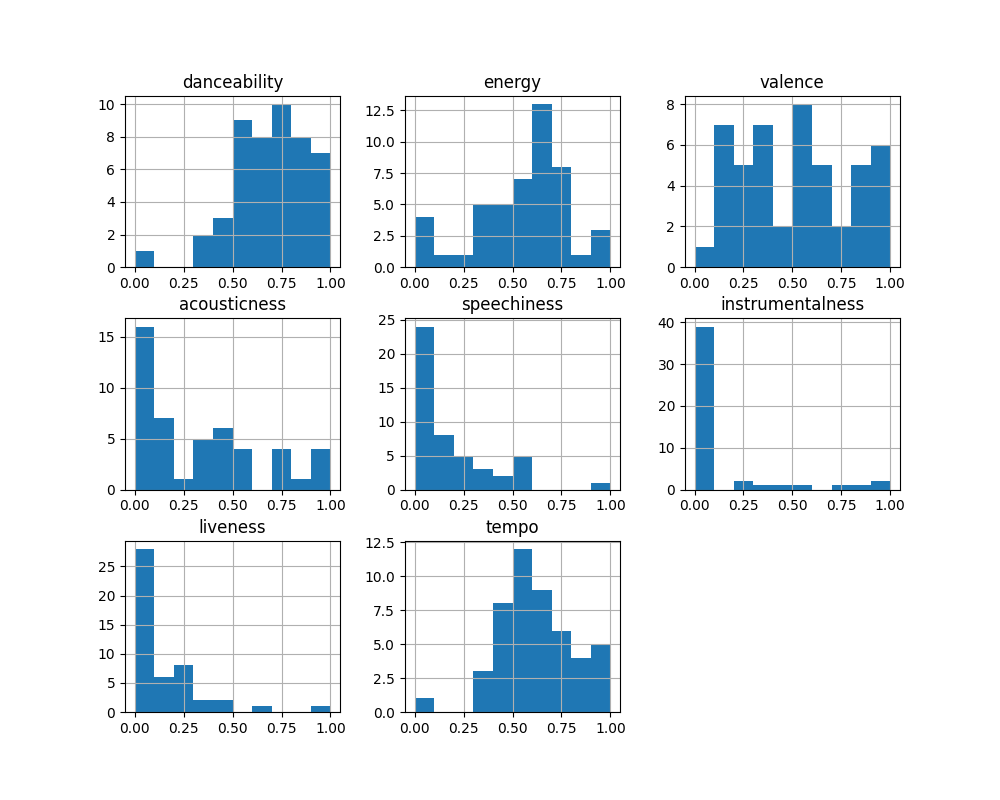
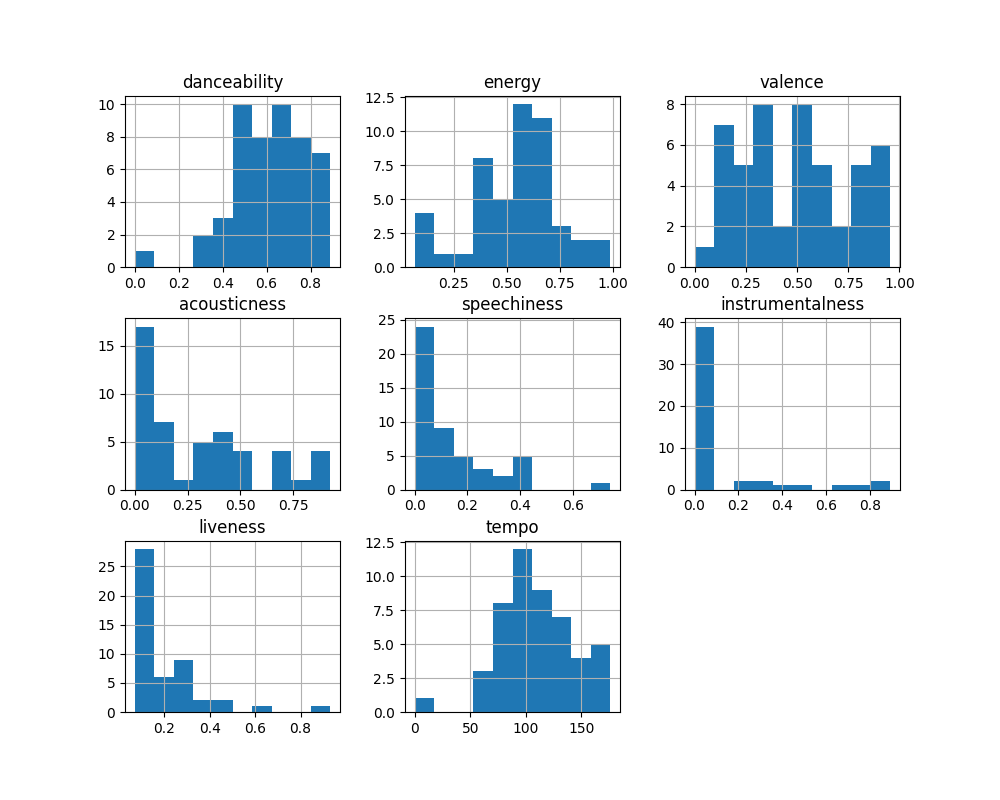
refactor directories and add data plot

diff --git a/src/model/kmeans.py b/src/model/kmeans.py
@@ -1,0 +1,70 @@
+import pandas as pd
+from sklearn.cluster import KMeans
+from sklearn.decomposition import PCA
+import matplotlib.pyplot as plt
+
+normalized_df = pd.read_csv("../../data/dataset_normalizzato.csv")
+
+##alcuni grafici che rappresentano i brani con le features più alte e più basse nel dataset.
+orderedDf = normalized_df.sort_values(by = ['danceability'], ascending = False, ignore_index=True)
+dfToPlot = orderedDf.head(5)
+ax = dfToPlot.plot(title = 'Danceability', x = 'titolo', y = 'danceability', legend = False, kind = "barh", color='red')
+ax.get_figure().tight_layout()
+plt.savefig("../../grafici/danceability.png")
+
+orderedDf = normalized_df.sort_values(by = ['energy'], ascending = False, ignore_index=True)
+dfToPlot = orderedDf.head(5)
+ax = dfToPlot.plot(title = 'Energy', x = 'titolo', y = 'danceability', legend = False, kind = "barh", color='cyan')
+ax.get_figure().set_in_layout(True)
+plt.savefig("../../grafici/energy.png")
+
+orderedDf = normalized_df.sort_values(by = ['liveness'], ascending = False, ignore_index=True)
+dfToPlot = orderedDf.head(5)
+ax = dfToPlot.plot(title = 'liveness', x = 'titolo', y = 'danceability', legend = False, kind = "barh", color='green')
+ax.get_figure().set_in_layout(True)
+plt.savefig("../../grafici/liveness.png")
+
+curva = []
+K = range(2,10)
+normalized_df.drop('titolo', axis=1, inplace=True)
+for k in K:
+    kmeanModel = KMeans(n_clusters=k, n_init=10)
+    kmeanModel.fit(normalized_df)
+    curva.append(kmeanModel.inertia_)
+
+plt.figure(figsize=(16,8))
+plt.plot(K, curva)
+plt.xlabel('Numero di Cluster (k)')
+plt.ylabel('SSE')
+plt.title('Il metodo Elbow Point mostra il k ottimale per il clustering.')
+plt.show()
+
+##realizzazione del PCA a 2 dimensioni
+pca = PCA(2)
+df_train = pca.fit_transform(normalized_df)
+print("debug 1")
+
+##applicazione del kMeans.
+kmeans = KMeans(5, n_init=10, max_iter=100)
+assigned_clusters = kmeans.fit_predict(df_train) ##fase di training
+print("Cluster creati")
+print(assigned_clusters)
+print(df_train)
+
+##plot dei risultati
+filtered_label0 = df_train[assigned_clusters == 0]
+filtered_label1 = df_train[assigned_clusters == 1]
+filtered_label2 = df_train[assigned_clusters == 2]
+filtered_label3 = df_train[assigned_clusters == 3]
+filtered_label4 = df_train[assigned_clusters == 4]
+centroids = kmeans.cluster_centers_
+plt.xlabel('PrincipalComponent1')
+plt.ylabel('PrincipalComponent2')
+plt.title('Rappresentazione dei cluster (kMeans)')
+plt.scatter(filtered_label0[:,0] , filtered_label0[:,1] , color = 'red')
+plt.scatter(filtered_label1[:,0] , filtered_label1[:,1] , color = 'limegreen')
+plt.scatter(filtered_label2[:,0] , filtered_label2[:,1] , color = 'fuchsia')
+plt.scatter(filtered_label3[:,0] , filtered_label3[:,1] , color = 'dodgerblue')
+plt.scatter(filtered_label4[:,0] , filtered_label4[:,1] , color = 'orange')
+plt.scatter(centroids[:,0], centroids[:,1], marker = "*", zorder = 10, c=['yellow', 'yellow','yellow', 'yellow', 'yellow'])
+plt.show()

diff --git a/src/preprocessing/preprocessing.py b/src/preprocessing/preprocessing.py
@@ -14,14 +14,14 @@ plt.savefig("istogrammaDataset.png")
         - normalizzazione dei dati
 """
 def pre(data):
-    to_drop_columns = ['id', 'titolo']
+    to_drop_columns = ['id']
     colonne_tenute = ['danceability', 'energy', 'valence', 'acousticness', 
-                      'speechiness', 'instrumentalness', 'liveness', 'tempo']
+                      'speechiness', 'instrumentalness', 'liveness', 'tempo', 'titolo']
 
     data.drop(to_drop_columns, axis=1, inplace=True)
-
     scaler = preprocessing.MinMaxScaler((0, 1))
-    data = scaler.fit_transform(dataset)
+    scaler.fit_transform(data[['danceability', 'energy', 'valence', 'acousticness', 'speechiness', 'instrumentalness', 'liveness', 'tempo']])
+    #data = scaler.fit_transform(dataset)
     data = pd.DataFrame(data=data, columns=colonne_tenute)
 
     data.hist(figsize=(10,8))

diff --git a/src/utilities/cfg.py b/src/utilities/cfg.py
@@ -3,3 +3,4 @@ SPOTIPY_CLIENT_SECRET = '3ae531fb02ba40b7b62123d770fd64f1'
 SPOTIPY_REDIRECT_URI = 'http://localhost:8080/'
 SCOPE = "user-read-playback-state,user-modify-playback-state,user-library-read,playlist-modify-private,playlist-modify-public"
 CACHE = '.spotipyoauthcache'
+
